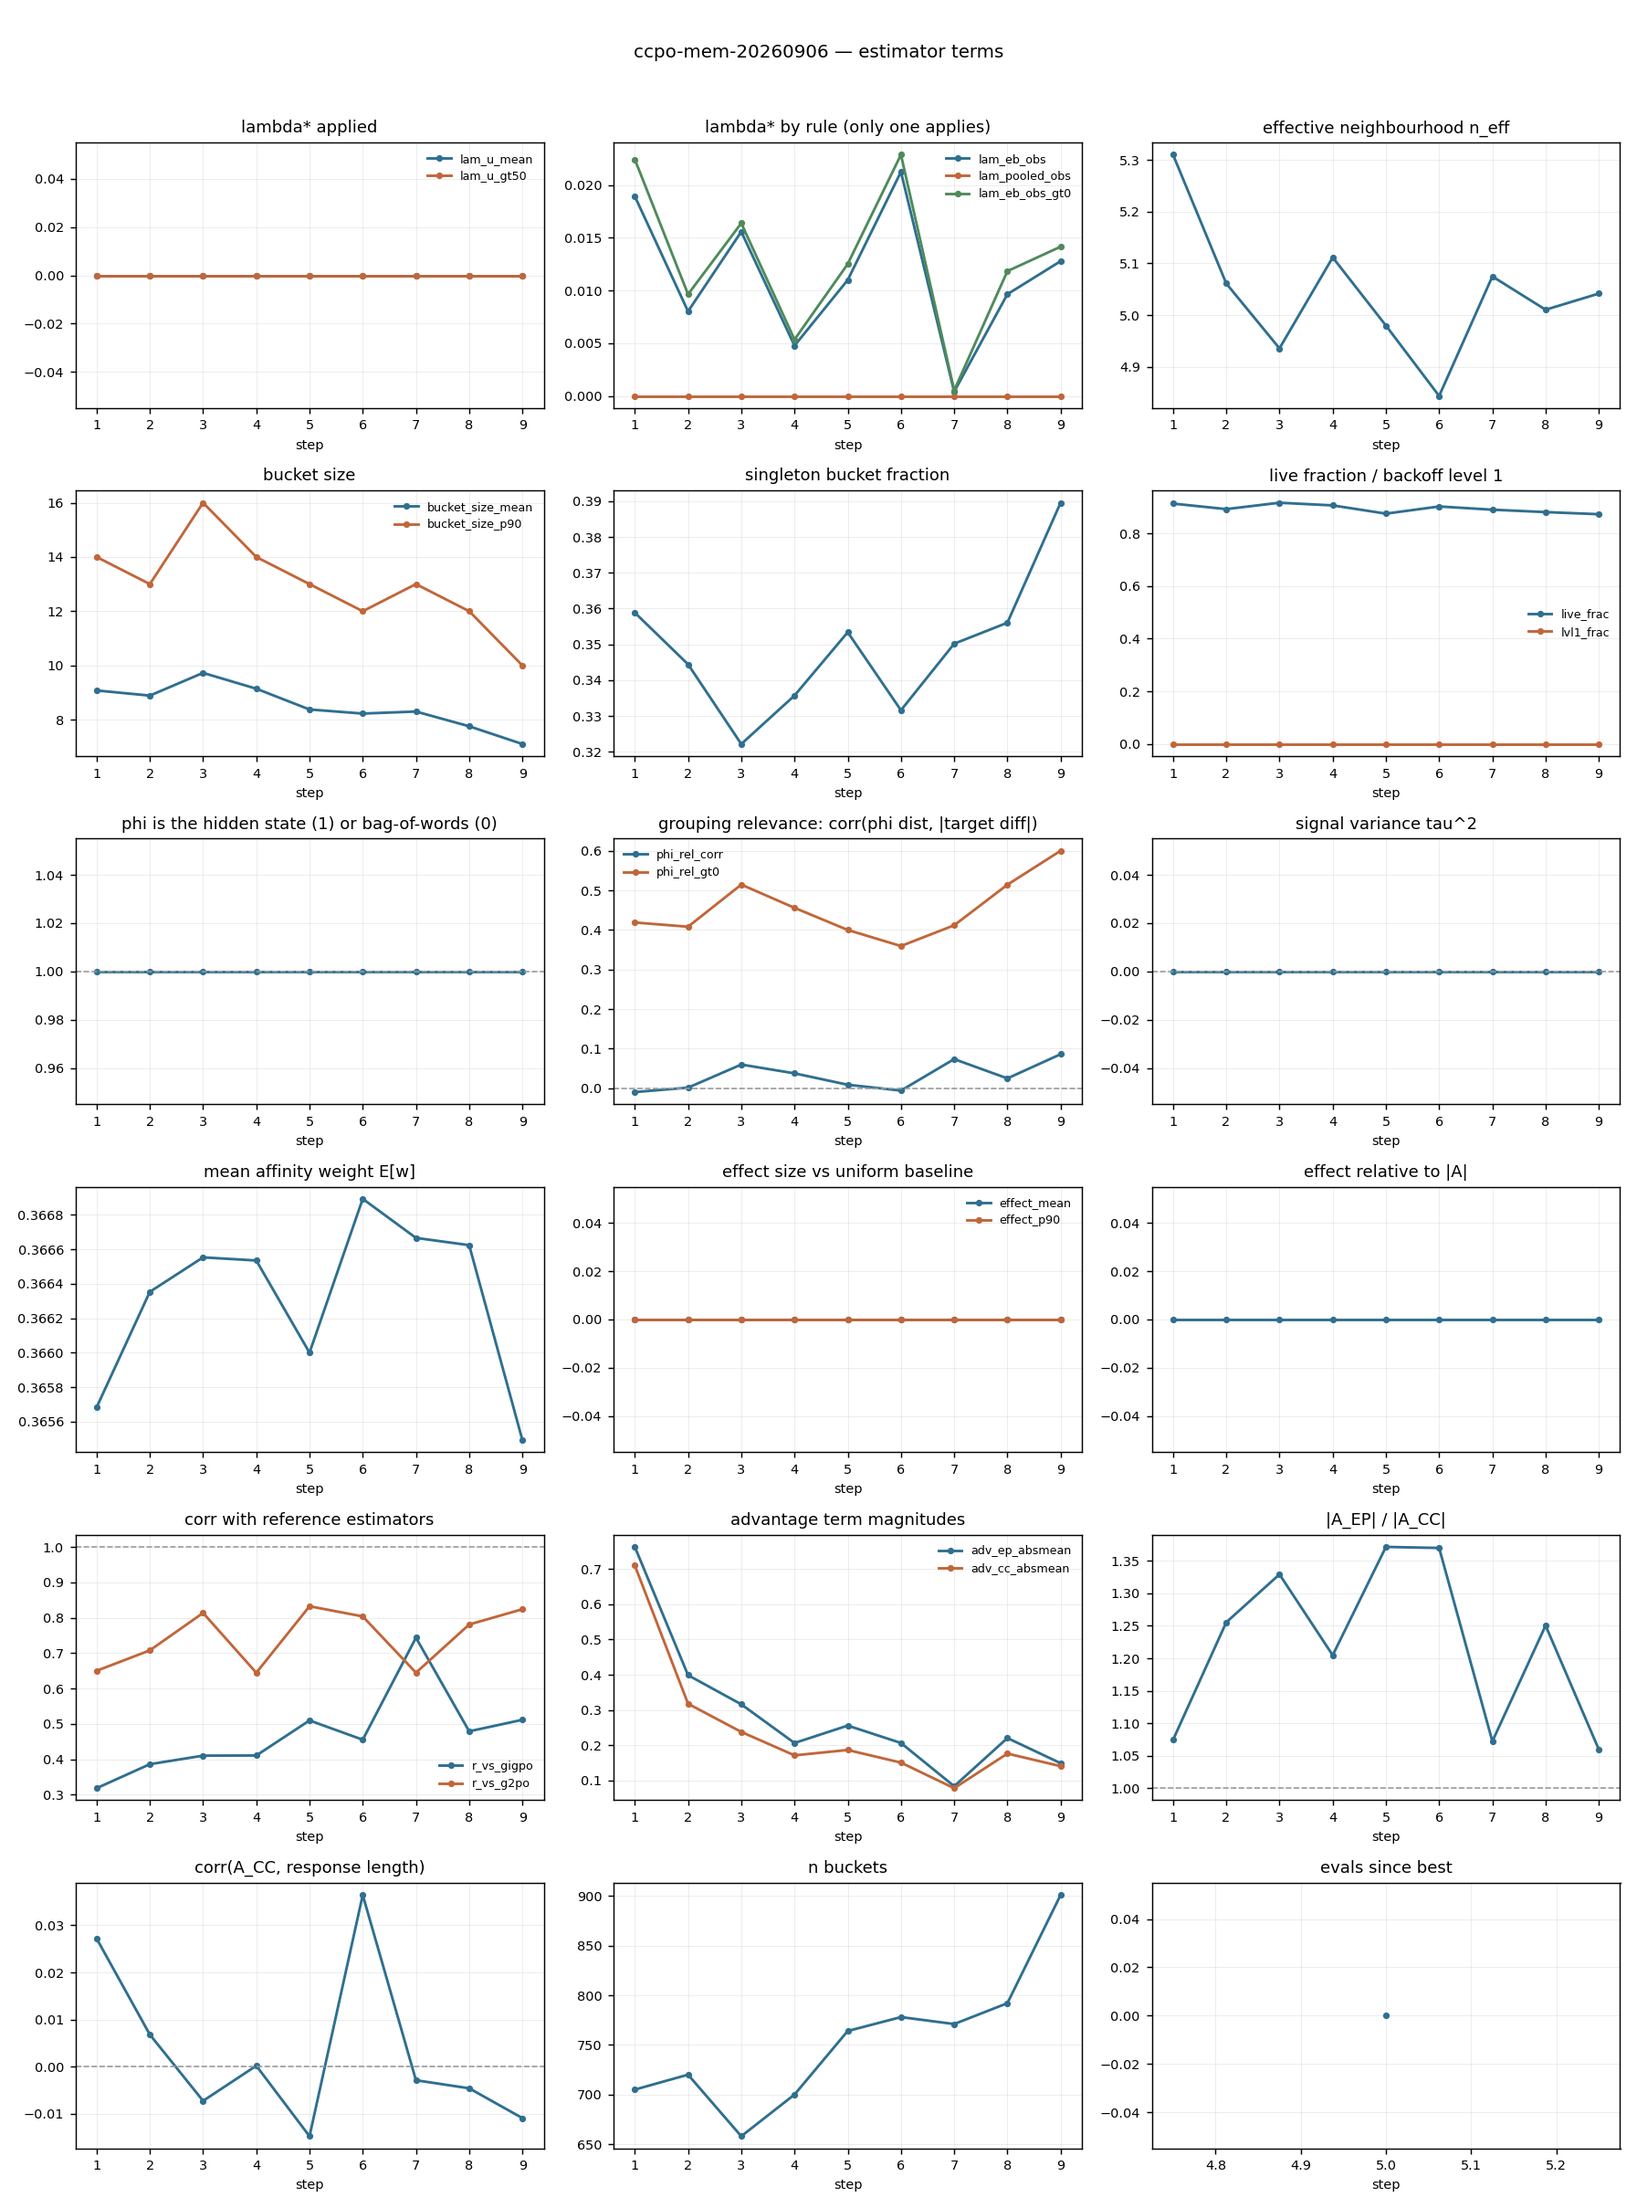
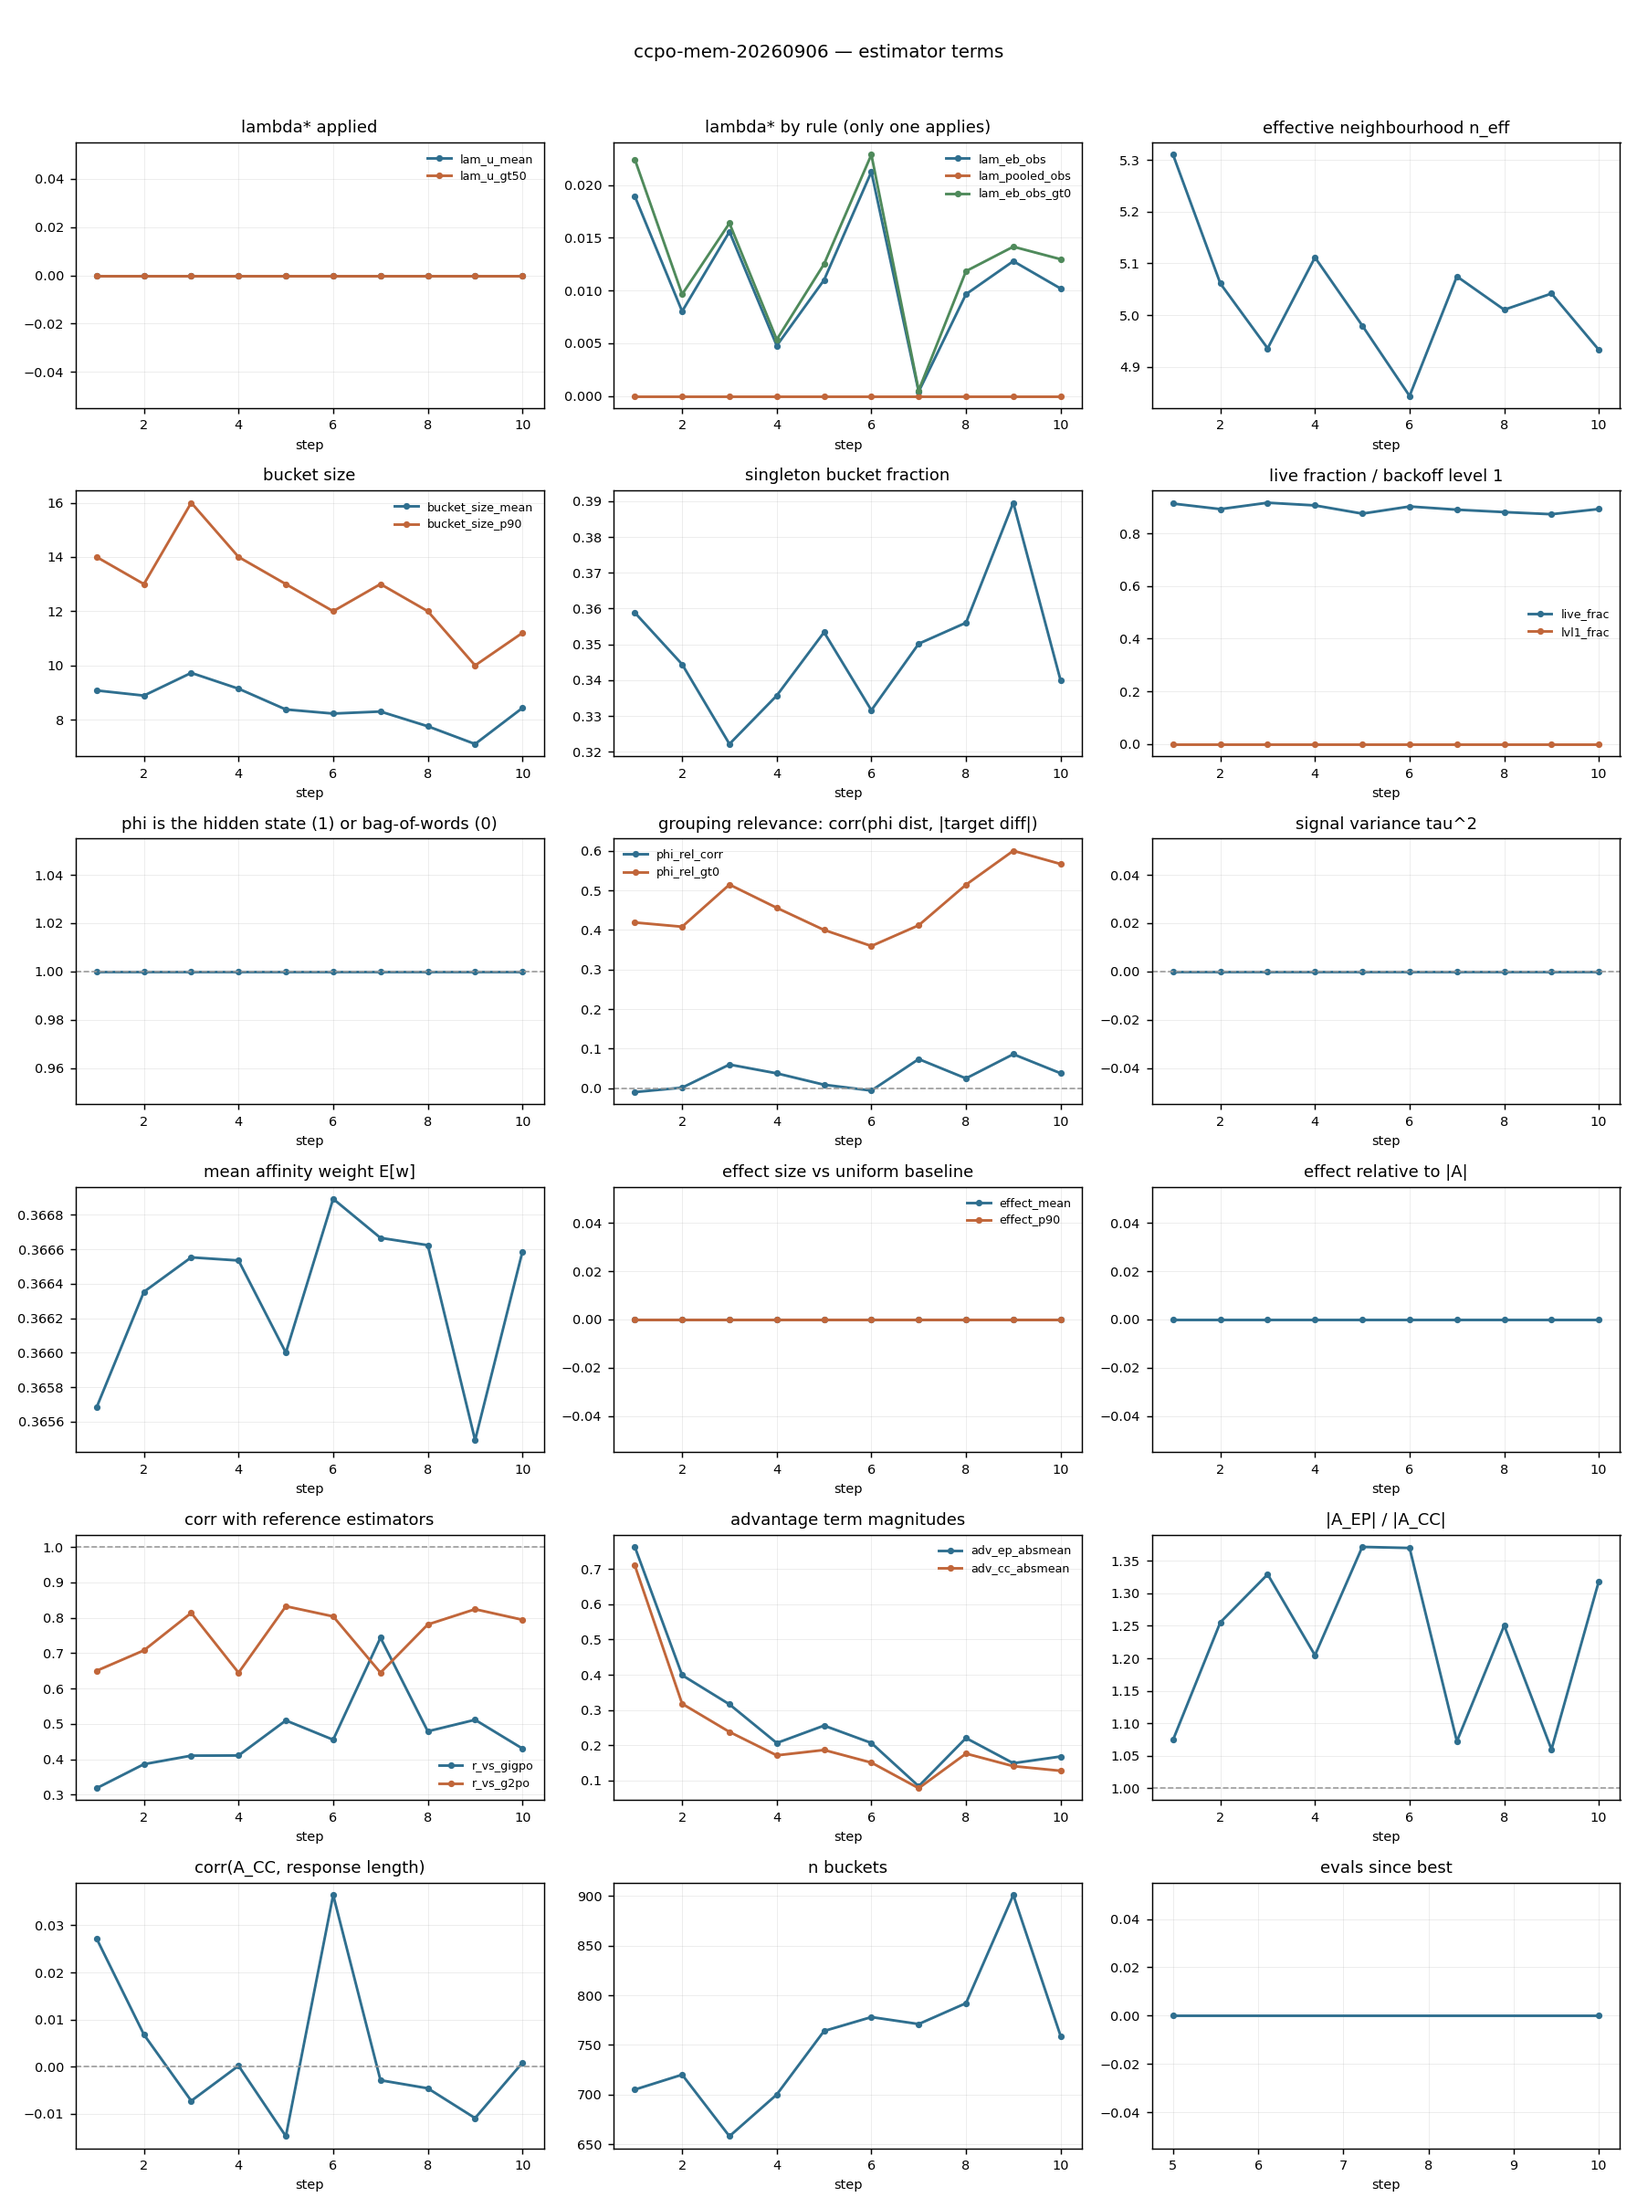
hypothesis.md: H-A resolves at step 10 to "real but too weak to exploit"
The pre-registered re-read on n=10. The bucket-fraction trend is significant
(slope +0.0151/step, r=+0.576, p=0.046): the proportion of buckets where
phi-distance predicts target-distance genuinely rises as the policy
differentiates. That was the predicted mechanism, and it means the flat claim that
phi carries no signal was wrong.

But the magnitude stays small -- mean +0.032, second half +0.043, projecting
+0.114 at step 20 against a 0.15 threshold set in advance, where an R^2-driven
lambda would be ~0.013. So lambda = 0 stays correct at every reachable magnitude
and the substance of the refutation holds.

Corrects the framing: not that phi-similarity fails to predict return-similarity,
but that it predicts weakly and increasingly, one to two orders of magnitude below
what the estimator needs. Whether it saturates or keeps climbing over the published
100-150 step horizon is unmeasured and is the most interesting open question left.

Claude-Session: https://claude.ai/code/session_01TnVw4qcXikRNMjxhmmuJXY

diff --git a/experiments/hypothesis.md b/experiments/hypothesis.md
@@ -158,7 +158,42 @@ Note `V(g)` carries trajectory-length information through `γ^(T−t)`, so watch
 > | 4 | **+0.0377** | 46% | 0.00000 | 0.000 |
 > | 5 | **+0.0090** | 40% | 0.00000 | 0.000 |
 >
-> **STATUS AT STEP 9: the trend test says drifting upward, p ~ 0.07.** Regressing
+> **RESOLVED AT STEP 10 (the pre-registered re-read), n=10 — "real but too weak
+> to exploit".**
+>
+> | statistic | slope/step | r | p | first half -> second half |
+> |---|---|---|---|---|
+> | `phi_rel_corr` | +0.0057 | +0.512 | 0.092 | +0.020 -> +0.043 |
+> | frac buckets > 0 | +0.0151 | +0.576 | **0.046** | 0.440 -> 0.490 |
+>
+> **The upward drift is real.** The bucket-fraction trend is significant at the
+> 0.05 level: the *proportion* of buckets in which φ-distance predicts
+> target-distance genuinely rises as the policy differentiates. That is the
+> mechanism predicted when this was reopened, and it means the flat categorical
+> claim "φ carries no signal" was **wrong**.
+>
+> **But the magnitude stays too small to matter.** Mean `phi_rel_corr` +0.032,
+> second half +0.043, and the fit projects **+0.114 at step 20** — below the 0.15
+> threshold registered in advance. At that magnitude an R²-driven λ would be
+> ~0.013. So λ = 0 remains the correct verdict at every magnitude reachable here,
+> and the substance of the refutation stands: **the conditioning cannot be made to
+> do useful work on ALFWorld at this scale**, not because φ is uninformative but
+> because it is informative far too weakly.
+>
+> **Correction to the earlier framing.** The refutation should not be stated as
+> "φ-similarity does not predict return-similarity". It should be: *φ-similarity
+> predicts return-similarity weakly and increasingly, at roughly r = 0.03-0.09 over
+> the first ten steps, which is one to two orders of magnitude below what the
+> estimator would need.* The first version is false; the second is what was measured.
+>
+> **Still live for a longer horizon.** The trend does not plateau within ten steps.
+> Whether it saturates near 0.1 or keeps climbing over 100-150 steps — the published
+> training length — is unmeasured, and is the single most interesting open question
+> about this method. It is also gated on H-F.
+>
+> ---
+>
+> *(superseded) STATUS AT STEP 9: the trend test says drifting upward, p ~ 0.07.* Regressing
 > `phi_rel_corr` on step over nine points: slope **+0.0073/step**, r = **+0.560**,
 > p ~ 0.073 (normal approximation on n=9, indicative only). Positive-bucket
 > fraction: slope +0.0124/step, r = +0.448. First three steps average **+0.017**,
